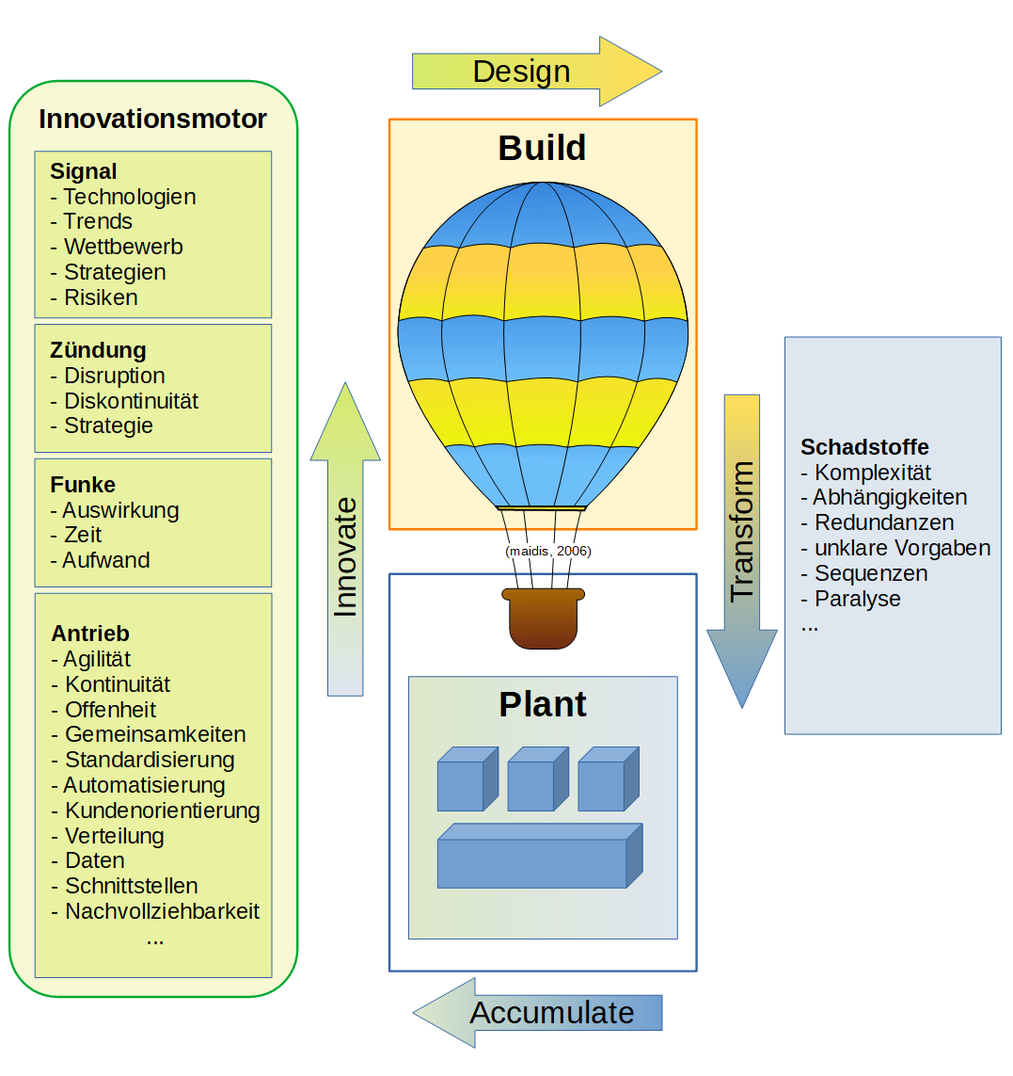
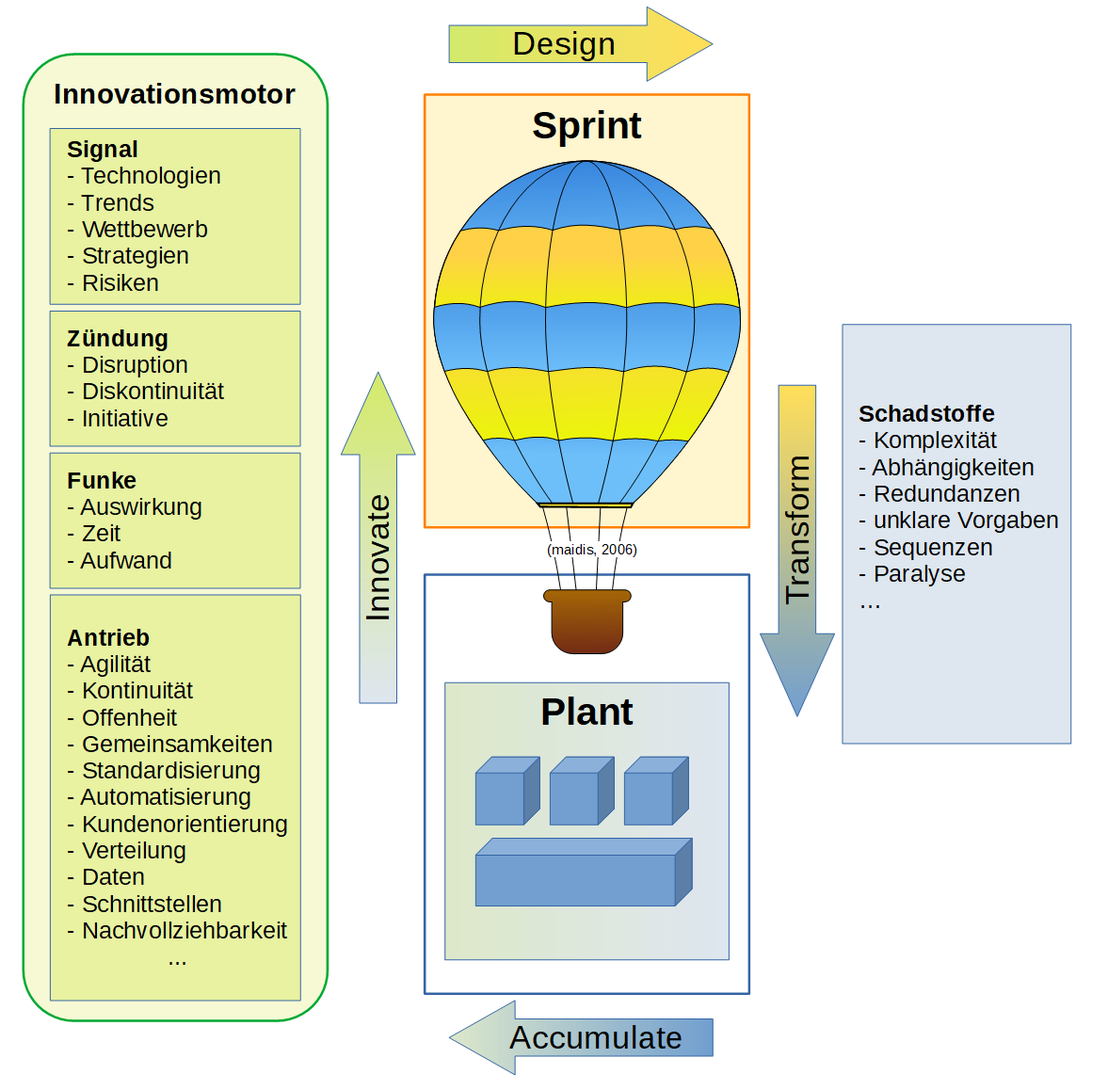
Updates from Overleaf

Changed region(s): [[0.0, 0.0, 1.0, 0.9799]]

diff --git a/chapters/examples/chapter04.tex b/chapters/examples/chapter04.tex
@@ -1,77 +1,68 @@
-\chapter{Veränderungsprozesse in Organisationen}
-Dieses Kapitel analysiert die Einflüsse aus den Rahmenbedingungen für Veränderungsprozesse der Institute und trägt kontinuierlich zur Findung der Ursachen der genannten Probleme und Ansätze für ihre Lösung bei. Der \emph{Design-Thinking} Prozess wird hierbei als iterative Innovationsmethode für Ideen, Prototypen und kontinuierlicher Evaluierung verwendet. Daher bauen die nachfolgenden Abschnitte aufeinander auf und sollen somit zu einer kontinuierlichen Verbesserung beitragen.
+\chapter{Innovations- und Transformationsprozesse}
+Dieses Kapitel analysiert die Einflüsse aus den Rahmenbedingungen für Veränderungsprozesse der Institute und trägt kontinuierlich zur Findung der Ursachen der genannten Probleme und Ansätze für ihre Lösung bei. Der \emph{Design-Thinking} Prozess wird hierbei als iterative Gestaltungsmethode für Ideen, Prototypen und kontinuierlicher Evaluierung verwendet. Daher bauen die nachfolgenden Abschnitte aufeinander auf und sollen somit zu einer kontinuierlichen Verbesserung beitragen und in ihrer letzten Ebene ausgeliefert werden.
 
-\section{Innovation und Transformation}
+\section{Einflüsse und Kräfte der Innovation}
+\citet{Ganswindt2006} und \citet{Koch2016} identifizieren bereits, dass das \ac{ITM} nicht in der Lage ist die Maßnahmen für eine Transformation zu priorisieren.
+Die gegenseitigen Einflüsse sind ineinander verwachsen und es werden häufig zu erst die Symptome bekämpft (Anh.\ref{appendix:docker}, Kap. \ref{jenkins:skalierung}).
 
-\cite{Ganswindt2006} und \cite{Koch2016} identifizieren bereits, dass das \ac{ITM} nicht in der Lage ist die Maßnahmen für eine Transformation zu priorisieren.
-Die gegenseitigen Einflüsse sind ineinander verwachsen und häufig werden zu erst die Symptome bekämpft (Anh.\ref{appendix:docker}, Kap. \ref{jenkins:skalierung}).
-
-\paragraph{einschränkende Faktoren zusammengefasst}
+\paragraph{Komponenten der Legacy-IT}
 \label{einschr:assets}
-Aufgrund dieser Verwachsungen wird in der folgenden Auflistung eine grobe Lokalisierung der Einschränkungen vorgenommen:
+Aufgrund dieser Verwachsungen wird in der folgenden Auflistung eine grobe Lokalisierung und Zusammenfassung vorgenommen:
 \begin{itemize}
-    \item \textbf{Organisation:} tiefe Silos \cite{Gupta:2017}, Schatten-IT \cite{recht/Bornemann2018}, Abhängigkeiten, Handlungsunfähigkeit, Redundanzen
-    \item \textbf{IT-Architektur:} Komplexität \cite{Brockhoff2006}, steigende Anforderungen \cite{Brockhoff2006}, Kosten für Eigenentwicklung \cite{Gupta:2017}, Proprietäre Anwendungen \cite{Bussmann2006}
-    \item \textbf{Regulatorik:} \ac{IDV} Katalogisierung\cite{recht/Bornemann2018}, fehlende Präzisierung, steigende Anforderungen,
+    \item \textbf{Organisation:} tiefe Silos \cite{Gupta:2017}, Schatten-IT \cite{recht/Bornemann2018}, Abhängigkeiten, Handlungsunfähigkeit, Redundanzen, mangelnde Priorisierung, langsame Prozesse
+    \item \textbf{IT-Architektur:} Komplexität \cite{Brockhoff2006}, steigende Anforderungen \cite{Brockhoff2006}, Kosten für Eigenentwicklung \cite{Gupta:2017}, Proprietäre Anwendungen \cite{Bussmann2006}, veraltete Systeme, mangelnde Skalierbarkeit, Legacy-IT
+    \item \textbf{Regulatorik:} \ac{IDV} Katalogisierung\cite{recht/Bornemann2018}, fehlende Präzisierung, steigende Anforderungen
 \end{itemize}
 
-\citet[Kap. 2.2]{Alt2017} erklären die Abläufe in Folge einer Innovation. Die Abbildung \cite[Abb. 2.1]{Alt2017} beschreibt einen Innovationsverlauf als eine \emph{S-Kurve} \cite{Ganswindt2006}, die in Folge mehrerer Innovationen gesamtheitlich betrachtet einen disruptiven Verlauf zeigen. Darunter liegt die Adaptionskurve, die als die Ableitung der Innovationskurve erscheint. 
+Es fällt auf, dass es erheblich schwierig ist die Einschränkungen für eine Transformation zu faktorisieren. Es ist weitaus einfacher direkte Gegenmaßnahmen auf die beobachtete Einschränkung vorzuschlagen oder antreibende Eigenschaften wie Agilität zu fordern. Daher werden die antreibenden Faktoren nachfolgend betrachtet.
+
+\subsection{Innovationsverlauf als disruptive S-Kurven}
+\citet[Kap. 2.2]{Alt2017} erklären die Abläufe einer Innovation. Die Abbildung \cite[Abb. 2.1]{Alt2017} beschreibt einen Innovationsverlauf als eine \emph{S-Kurve} \cite{Ganswindt2006}, die in Folge mehrerer aneinander gereihte Innovationen gesamtheitlich betrachtet einen disruptiven Verlauf mit Sprüngen zeigen. Darunter liegt die Adaptionskurve, die als die Ableitung der Innovationskurve erscheint. 
+
+Einschränkenden Faktoren, die in Banken beobachtet werden, könnten auf dem ersten Blick als Faktor der Adaptionskurve in \cite[Abb. 2.1]{Alt2017} zugeordnet werden und die Adaption beschränken. Demgegenüber stehen die zu erarbeitenden Gegenmaßnahmen zur Lösung des Problems. Instinktiv können einige Einschränkungen, die eine Eigenschaft darstellen negiert werden. Komplexität wird beispielsweise zu Nachvollziehbarkeit. Die Meisten benannten Einschränkungen sind jedoch keine Effekte, die die Innovationskraft beeinflussen. Sie beeinflussen aber die bevorstehende Transformation. 
 \medskip
 \\
-Einschränkenden Faktoren, die in Banken beobachtet werden, könnten als Faktor der Adaptionskurve in \cite[Abb. 2.1]{Alt2017} zugeordnet werden. Demgegenüber stehen die zu erarbeitenden Gegenmaßnahmen zur Lösung des Problems.
+Innovationen unterliegen kreativen Prozessen \cite[S.14]{Alt2017}, weswegen eine kreative Methode sich für ihr Verständnis eignen könnte. Gerade der \emph{Design-Thinking} Prozess sieht die iterative Gestaltung und Evaluierung von Prototypen vor. Dadurch können Zusammenhönge untersucht werden und der Lösungsansatz kann ständig angepasst werden.
 \medskip
 \\
-Hierbei fällt auf, dass die als Faktor wahrgenommenen Einschränkungen aus den Rahmenbedingungen in diesem Kapitel zwischen Zuständen und ihren Eigenschaften unterschieden werden können. Daher sind einige Einschränkungen Rahmen, die einen Zustand enthalten. Ihre negativen Eigenschaften sind hierbei die Faktoren, welche die Adaptionskurve hemmen könnten. Es macht im ersten Blick durchaus Sinn, dass die Einführung einer innovativen Technologie 
-\medskip
-\\
-In einem ersten Rückblick, zwischen den untersuchten Maßnahmen und dem Innovationsverlauf in \cite{Ganswindt2006, Alt2017} kann folgendes festgestellt werden.
+In folge wurde Abbildung \ref{fig:digit-trans} in mehreren Iteration der Syntheseschritte \enquote{ideate-prototype-testing} aus dem Design-Thinking Prozess (Kap. \ref{def-design-thinking}) mithilfe von den Punkten aus \cite[S. 14]{Alt2017} und dem erarbeiteten Rahmen in Kap. \ref{ch:background} generiert.
+%
 
-
-\begin{itemize}
-    \item Das Problem besteht in der \emph{Transformationsfähigkeit} eines Unternehmens. 
-    \item Um diese zu steigern müssen Maßnahmen ermittelt werden, welche die Amplitude der Adaptionskurve \cite[Abb. 2.1]{Alt2017} \emph{kontinuierlich \cite{Bussmann2006}} aufrecht erhalten. 
-\end{itemize}
-
-\subsection{Prototyp zur Regelung von Innovation}
-
-\paragraph{Innovationsverlauf}
-Die Einflüsse im Zusammenhang mit Innovation könnten folgendermaßen klassifiziert werden:
-\begin{enumerate}
-    \item \textbf{Impulse} für einen bevorstehenden Transformationsprozess. Für Veränderung werden Impulsgeber benötigt wie zum Beispiel Technologien \cite{Bussmann2006, Gupta:2017}. Der Impuls kann als die Innovation selbst gesehen werden. Aus der Ableitung der Adaptionskurve \cite[Abb. 2.1]{Alt2017} wird deutlich, dass der Hochpunkt der Adaption mit der Auswirkung oder Effektivität der Innovation korreliert.
-    \item \textbf{Auslöser} für die Klassifizierung der Innovation. Sie ist für die Entscheidung über die Maßnahmen gegenüber den Impulsen wichtig.
-    \item \textbf{Parameter} für die Antizipation der \emph{bevorstehenden} Transformation. \emph{Bevorstehend} impliziert auch eine Unvermeidbarkeit, die sich aus disruptiven Eigenschaften einer Innovation ergibt \cite{Fernandez:2020, Gupta:2017}
-    \item \textbf{Antriebe} als Faktoren, die die \emph{bevorstehende} Transformation begünstigen. Sie drücken möglicherweise die Innovationskraft oder Effektivität der Organisation aus.
-\end{enumerate}
-Die höchstmögliche Transformationsfähigkeit wäre mit der geringsten Differenz zwischen der \emph{angestrebten} Adaptionskurve \cite[Abb. 2.1]{Alt2017} und der Transformationsfähigkeit möglich.
-
-\paragraph{Regelung der Transformation}
-Veränderungen unterliegen kreativen Prozessen \cite[S.14]{Alt2017}, weswegen eine kreative Methode sich für ihr Verständnis eignen könnte. Gerade der \emph{Design-Thinking} Prozess sieht die iterative Gestaltung und Evaluierung von Prototypen vor. Dadurch können Zusammenhönge untersucht werden und der Lösungsansatz kann ständig angepasst werden.
-\medskip
-\\
 \begin{figure}[htbp]
  \centering
  \includegraphics[width=1.0\textwidth]{gfx/digital-transformation-lifecycle-by-selim3.PNG}
- \caption{Innovationsverlauf und Regelung der Transformation (Quelle: eigene Darstellung, Heißluftballon von \citet{maidis_2006})\label{fig:digit-trans}
+ \caption{Innovationsverlauf und Regelung einer Transformation (Quelle: eigene Darstellung, Heißluftballon von \citet{maidis_2006})\label{fig:digit-trans}
  }
 \end{figure}
+%
+\paragraph{Beschreibung Innovationsverlauf}
+Ein Innovationsprozess setzt auch einen Auslöser voraus. Dieser kann kontrolliert anhand einer Strategie gesetzt werden oder durch äußere Einflüsse unkontrolliert in Form einer Disruption oder Diskontinuität. \cite{Fernandez:2020} des aktuellen Zustands eindringen. Sie Zeigen sich als Impuls, die Bewegungen anstoßen.
+Weitergeführt werden in (Abb. \ref{fig:digit-trans}) die Antriebe der Innovation beschrieben. Diese steigern die Innovationskraft und wirken gegen die Widerstände, genannt Einschränkungen. Die Antriebe sind hierbei in Form von Anforderungen nur ein Soll-Zustand der Organisation. Sie ermitteln sich aus der Last der Legacy-IT. 
+
+\paragraph{Ursprung der Idee}
+Der Begriff der antreibenden und einschränkenden Faktoren generierte in Zusammenhang mit dem Transformationsziel der heutigen IT-Architekturen hin zu einer Cloud-Architektur die Idee von einem Heißluftballon als Metapher für die sich transformierende Organisation.
+
+\paragraph{Auswirkung auf die Transformation}
+
+Wird das ganze mit einem entsprechenden physikalischen Zusammenhang betrachtet scheint es sofort ersichtlich, dass geplante Transformationen mit Gegengewichte belastet werden. Der Arbeitsaufwand für die Transformation steigt exponentiell, je schwergewichtiger die Organisation ist. Veränderungsprozesse oder Transformationen können nicht mit linearen Metriken geplant werden. Daher entsteht auch das Problem von exponierenden Budgets in Anpassungsprojekten.
 \medskip
 \\
-Abb. \ref{fig:digit-trans} ist aus der Zusammenfassung von antreibenden und einschränkenden Faktoren entstanden. Der Begriff der antreibenden und einschränkenden Faktoren generierte in Zusammenhang mit dem Transformationsziel der heutigen IT-Architekturen hin zu einer Cloud-Architektur die Idee von einem Heißluftballon als Metapher für die sich transformierende Organisation.
-
-Zu antreibenden Faktoren für Veränderungen wurden weitere Kategorien aus den Ergebnissen dieses Kapitels ergänzt. Die Antriebe sind hierbei ein Soll-Zustand, der eine 
-
-Ein Veränderungsprozesse oder Transformation beginnt nicht allein mit dem Treibstoff. Der Prozess setzt einen Funken als Auslöser voraus, um ihn zu beginnen. Dieser kann kontrolliert anhand einer Strategie gesetzt werden oder durch äußere Einflüsse unkontrolliert in Form einer Disruption oder Diskontinuität \cite{Fernandez:2020} des aktuellen Zustands.
+Um eine Transformation zu planen reichen Aufwände und Zeitrahmen nicht aus. Die Transformation bedingt eine Innovationskraft, die sich aus der Wechselwirkung zwischen vorhandenem Antrieb und Einschränkungen ergibt. Sind genügend Antriebe vorhanden und wenig Last kann auch Traktion entstehen.
 \medskip
 \\
+Die Maßnahmen der Legacy-IT in Banken richten sich nach den falschen Metriken und Zielen. Ziel ist es nicht eine Arbeit hinter sich zu bringen. Technologiesprünge werden frequentierter und Strecke immer länger.
+Die aktuellen Maßnahmen richten sich nur nach den Einschränkungen. Diese sind erstmal nicht relevant, da sie sich nicht selbst überwinden können. Für die Innovationskraft spielt der materielle Zusammenhang keine Rolle.
+
+\paragraph{Bildlich weitergeführt}
 Die Analogie eines Heißluftballon für die Regelung der Transformation kann folgendermaßen fortgeführt werden:
 
-Die Veränderungsprozesse im Ballon sind dynamisch und bewegen mit genug Antrieb ein statisches Abbild der Organisation, welcher im Korb des Heißluftballon liegt und einen Zustand der Organisation beschreibt. Der Korb ist in sich geschlossen und beinhaltet den Ablauf und Aufbau des Kerngeschäfts. Dieser trägt zu ihrer Unterstützung viele weitere Funktionen mit, die jeweils die Bewegung der Organisation durch ihre Last exponentiell einschränken. Die Bewegung kann auf zwei Arten beschleunigt werden. Der Antrieb wird erhöht oder ein Teil der Einschränkungen abgeworfen. Sie kann nicht gesteuert werden, wodurch externe Einflüsse sie stark beeinflussen können. Das Objekt gleitet in diesem hierbei im Strom einfach mit. Beim Fliegen das Gewicht des Heißluftballon (Abb. \ref{fig:digit-trans}) eine größere Rolle wie ihr Antrieb. Mit zunehmendem Gewicht steigt der Aufwand exponentiell.
+Die Kräfte im Ballon sind dynamisch und bewegen mit genug Antrieb ein statisches Abbild der Organisation, welcher im Korb des Heißluftballon liegt und einen Zustand der Organisation beschreibt. Der Korb ist in sich geschlossen und beinhaltet den Ablauf und Aufbau des Kerngeschäfts. Dieser trägt zu ihrer Unterstützung viele weitere Funktionen mit, die jeweils die Bewegung der Organisation durch ihre Last exponentiell einschränken. Die Bewegung kann auf zwei Arten beschleunigt werden. Der Antrieb wird erhöht oder ein Teil der Einschränkungen abgeworfen. Sie kann nicht gesteuert werden, wodurch externe Einflüsse sie stark beeinflussen können. Das Objekt gleitet hierbei im Strom einfach mit.
 \medskip
 \\
 \paragraph{Lehren aus Docker}
 Ein statisches Abbild mit Prozessbeschreibungen und Ausführung als eine in sich geschlossene Einheit ist aus der Virtualisierung von Systemen bekannt. Mit zunehmender Automatisierung der Geschäftsprozesse finden sich auch zunehmende Gemeinsamkeiten zwischen Organisationen und IT-Systemen. 
 
-Best-Practices zur Beschreibung von Images mit Docker könnten als Inspiration für Organisationen dienen. Besonders das Minimalisieren von Images und Konzepte wie Kubernetes zur flexiblen Skalierung und Orchestrierung von ganzen System könnten als Idee für eine flexible und skalierbare Orchestrierung von Veränderungen für die Organisation dienen, um ihre Transformation zu automatisieren. Der schmerzvolle Rollout bei wesentlichen Veränderungen in großen Organisationen könnte in eine vollautomatisierte Orchestrierung umgewandelt werden.
+Best-Practices zur Beschreibung von Images mit Docker könnten als Inspiration für Organisationen dienen. Besonders das Minimalisieren von Images durch schlanke und funktionale Ebenen sowie Kubernetes zur flexiblen Skalierung und Orchestrierung von ganzen System könnten als Idee für eine flexible und skalierbare Orchestrierung von Veränderungen für die Organisation dienen, um ihre Transformationsfähigkeit zu erhöhen. Der schmerzvolle Rollout bei wesentlichen Veränderungen in großen Organisationen könnte in eine vollautomatisierte Orchestrierung umgewandelt werden.
 Agile Prinzipien in der Kultur wären das Docker und ein neues effektives Change-Management das Kubernetes des Managements.
 
 Nach einer solchen zukünftigen Entwicklung wäre die Idee von \emph{Development as a Service} \ref{Disruption:DaaS} mit entsprechenden eingespielten Abläufen durchaus realistisch. Andere disruptive Entwicklungen sind auch nicht ausgeschlossen. Umso wichtiger ist es einen Weg zu finden die Digitale Transformation zu beherrschen.
@@ -82,17 +73,18 @@ Nach einer solchen zukünftigen Entwicklung wäre die Idee von \emph{Development
 %
 
 
+\section{Frage an das Management: Change oder Run?}
 \paragraph{Transformationsfähigkeit als Prinzip}
-Abb. \ref{fig:digit-trans} stellt für den Umgang mit wesentlichen Veränderungen ein erstes Prototyp dar. Sie impliziert, dass antreibende und einschränkende Faktoren erhebliche Einflüsse für die bevorstehende Transformation haben. Die Abbildung beschreibt möglicherweise einen Zustand vor einer bevorstehenden Transformation.
+Abb. \ref{fig:digit-trans} stellt für den Umgang mit wesentlichen Veränderungen ein erstes Prototyp dar. Die Abbildung beschreibt möglicherweise einen Zustand vor einer bevorstehenden Transformation.
 
-Daher dient sie als Grundlage, um Anforderungen für einen innovativen Soll-Zustand zu simulieren. Ein innovativer Soll-Zustand der Organisation würde eine höchstmögliche Transformationsfähigkeit antreiben. 
+Daher dient sie als Grundlage, um Anforderungen für einen innovativen Soll-Zustand zu simulieren. Ein innovativer Soll-Zustand der Organisation würde eine höchstmögliche Transformationsfähigkeit bedeuten.
 \medskip
 \\
 Gleichzeitig zeigt sie, dass mit Anforderungen und Kenntnissen über Einschränkungen eine bevorstehende Transformation nur geregelt werden kann und die Richtung nicht absehbar ist. Gas geben ohne zu lenken ist für FinTechs und Start-ups kein großes Problem, da aufgrund ihrer kleinen Größe die Auswirkungen von Veränderungen einfacher analysiert werden können.
 
 Für die größeren, etablierten Institute gilt ein erhöhter Schutzbedarf \cite{recht/Bornemann2018} und dadurch zusätzliche Maßnahmen für die Kontrolle von operationellen Risiken \cite{MaRisk:2017, BAIT:2018}. Diese müssen gezwungenermaßen sich neu ausrichten \citet{Bussmann2006, Gupta:2017}, indem sie ihre hohe Masse in Bewegung versetzen. Analog impliziert es eine Unkontrollierbarkeit von möglichen Problemen und Risiken.
-
-\subsection{Frage an das Management: Change oder Run?}
+\medskip
+\\
 \citet[11.4.1]{Koch2016} fordern für ein Management der Transformation:
 \begin{quote}
     \enquote{Erstens ist zu akzeptieren, dass der
@@ -120,7 +112,7 @@ Beim Durchleuchten der Einschränkungen aus verschiedenen Perspektiven fällt au
 \paragraph{Gestaltungsmethoden für IT-Management}
 Neben externe Auslöser von Innovation, die Unternehmen aufgrund von Disruption und Diskontinuität zu Veränderungen zwingen \cite{Gupta:2017, Fernandez:2020} existiert die IT-Strategie als interner Auslöser \cite{BAIT:2018, Alt2017}, dessen Verantwortung in erster Linie der Geschäftsleitung unterliegt \cite{BAIT:2018}. Daher sollten zu erst die Veränderungsprozesse optimiert werden. Eine klare IT-Strategie optimiert sich selbst bevor Forderungen gestellt werden. Dies wird durch Gestaltungsmethoden wie \emph{Design-Thinking} hervorgehoben, indem sie die Quellen zu fremden Problemen zuerst auf sich selbst richten \cite{yüksel:digit}. Gestaltungsmethoden wie Design-Thinking werden gerade für Innovationsprozesse und für das \ac{ITM} empfohlen \cite{Alt2017, Koch2016}. Zudem sollte die in \citet[AT 8.2]{MaRisk:2017} geforderte Analyse und Beteiligung bei wesentlichen Veränderungen schon in den Gestaltungsprozessen stattfinden \cite{Dorschel2018}. Eine Mitgestaltung nach agilen Methoden (Abb. \ref{fig:devops}) ist auch im IT- und Risikomanagement erforderlich, um effiziente Abläufe und Maßnahmen zu schaffen.
 
-\paragraph{Forderung eines effektiven Veränderungsmanagements}
+\section{Forderung eines effektiven Veränderungsmanagements}
 Für die Vorhersehbarkeit von Auswirkungen ist ein kontrollierter Umgang mit Veränderungsprozessen erfordert. Um wesentliche Veränderungen kontinuierlich zu ermöglichen muss die Analyse ihrer Auswirkungen \cite{MaRisk:2017} ebenfalls effektiv sein. Die Vorhersehbarkeit der Auswirkungen von Veränderung sollte nicht nur aufgrund der Regulatorik erfüllt werden. Sie ist als eine Voraussetzung für eine klare Sicht und Zielorientierung für die Transformation anzustreben.
 \medskip
 \\
@@ -145,19 +137,16 @@ Die Frage zu einem Umgang mit kontinuierlichen Veränderungen betrifft das Verä
 \medskip
 \\
 Daher wird klar warum das Modell aus Abb. \ref{fig:digit-trans} nicht zufriedenstellend genug ist. Sie identifiziert anhand der Antreiber und Einschränkungen viele Anforderungen aus \cite[Tab. 11.1]{Koch2016} aus den Bereichen Innovations- und Gestaltungsfähigkeit. Für ein Paradigmenwechsel großer Organisationen spielt die Transformationsfähigkeit die entschiedenste Rolle.
- \paragraph{Ökologisches Veränderungsmodell: IDTA-Modell}
- \begin{figure}[htbp]
- \centering
- \includegraphics[width=1.0\textwidth]{gfx/digital-transformation-lifecycle-by-selim4.PNG}
- \caption{Transformations-Lebenszyklus: Kontinuierlicher Veränderungsprozess nach Innovate-Design-Transform inklusive Accumulate (Quelle: eigene Darstellung, Heißluftballon von \citet{maidis_2006})\label{fig:digit-trans-idt}
- }
- \end{figure}
 
-In Anlehnung am DevOps Lebenszyklus \ref{fig:devops} \cite{Alt2017} wurde ein kontinuierliches Konzept für die gezielte Steuerung von Innovationsabläufen ausgearbeitet \cite{Ganswindt2006}.
+\section{Ökologisches Veränderungsmodell der IT}
+\label{idta-modell-chap}
+In Anlehnung an das  \emph{innovate-design-transform} Paradigma von \citet{Koch2016}, und an DevOps wurde ein kontinuierliches Konzept für die gezielte Steuerung von Innovationsabläufen \cite{Ganswindt2006} ausgearbeitet.
 
-Während das DevOps Lebenszyklus \cite{Alt2017} sich auf einen kontinuierlichen Prozess für die Optimierung eines IT-Produkts oder IT-Service bezieht, soll diese Abbildung \ref{fig:digit-trans} sich auf einen kontinuierlichen Prozess für die Optimierung der IT-Organisation beziehen, indem die Verbesserungsprozesse selbst in einem kontinuierlichen Prozess ihr Ergebnis ständig verbessern können.
+Während das DevOps Lebenszyklus \cite{Alt2017} sich auf einen kontinuierlichen Prozess für die Optimierung eines IT-Produkts oder IT-Service bezieht, soll diese Abbildung \ref{fig:digit-trans} sich auf einen kontinuierlichen Prozess für die Optimierung der IT-Organisation beziehen, indem die Veränderungsprozesse selbst in einem kontinuierlichen Prozess ihr Ergebnis ständig verbessern können.
+\medskip
+\\
  
-\subsection{Vom Innovationsverlauf zum ökologischen Innovationsmotor}
+\subsection{Vom Innovationsverlauf zum Innovationsmotor}
 Der für Abb. \ref{fig:digit-trans} ausgearbeitete Innovationsverlauf stellt einen ersten Zusammenhang für die schwer zu überblickenden und zu beherrschenden und Abläufe, wodurch Innovationsprozesse in Gang gesetzt werden. Die Impulse, welche die Ausgaben der schwierig zu erkennenden fremden Abläufe sind konnten dadurch grob klassifiziert werden. Das Innovationsmanagement hat zu erkennen, dass der Innovationsprozess extern bereits gestartet wird und die Ausgaben der externen Abläufe die Organisation durchdringen. Für die Beherrschbarkeit der unvermeidbaren Innovationseinflüsse hat das Innovationsmanagement sich zur Aufgabe machen die externen Impulse wahrzunehmen und die Abläufe abzufangen und gegebenenfalls zu übernehmen.
 Dabei ist es von besonderer Bedeutung das Risikomanagement in diesen Überwachungsprozess mit gestalterischen Tätigkeiten miteinzubeziehen. Ein sich aufbrauender Veränderungsprozess macht sich mit kleinen Impulsen bemerktbar, bevor es disruptiv in die Athmosphäre der Organisation eindringt. Die Gefahr der Disruption muss mitigiert werden, indem die Innovation gekapert wird. 
 \medskip
@@ -170,10 +159,47 @@ Daher hat die Gestaltung des Innovationsmanagements Implikationen auf das Risiko
 Disruptive Technologien greifen den Markt an \cite{Fernandez:2020} und somit auch das Geschäftsmodell der etablierten Institute (\ref{Disruption:Blockchain}) und sind daher ein operationelles Risiko. Diese Tatsache ist seit längerem bekannt \cite{Ganswindt2006} und wird nicht berücksichtigt.
 \medskip
 \\
+\subsection{Forderungen zu MaRisk}
 Aufgrund der Risikosituation in Zeiten der Digitalen Transformation wird zu den \ac{MaRisk} \cite{MaRisk:2017} im Rahmen der Ermessensfreiheit der Institute folgende Maßnahmen gefordert:
 \begin{enumerate}
-    \item Die Geschäftsleitung hat in der Gestaltung der Geschäftsstrategie die IT-Strategie als Kernkompetenz einzubeziehen
     \item Die IT-Strategie hat die Transformationsfähigkeit des Instituts sicherzustellen und Innovationsprozesse kontinuierlich zu verbessern
-    \item Das Risikomanagement ist in das Innovationsmanagement einzubeziehen
     \item Das Risikomanagement hat Impulse aus Innovationsverläufen zu überwachen und gegen Disruptionen ein Notfallkonzept für Transformationsprozesse auszuarbeiten. Insbesondere hat sie die Aufgabe eine Disruption zu erkennen und eine Transformation aktiv vorzubereiten.
+\end{enumerate}
+
+\subsection{Ökologie des IT-Betriebs}
+Das \emph{innovate-design-transform} Paradigma von \citet{Koch2016} wurde um den Punkt Accumulate erweitert, um die Errichtung von Anlagen \cite{Ganswindt2006} miteinzubeziehen. Gerade dieser Schritt erzeugt ein Kontinuitätsprinzip, dass eine Steigerung der Transformationsfähigkeit vorsieht. Accumulate steht hierbei für Wertschöpfung. Sie kann auch für das Sammeln von Daten und Erkenntnissen stehen. Dieser Schritt ist ein Beitrag für einen ständigen Verbesserungsanspruch. Die Bereiche Entwicklung und Produktion wurden hierbei umbenannt. Sprint steht für die Agile Entwicklung. Die Produktion wurde in Plant umbenannt, um eine Nachhaltigkeit der IT-Architektur vorauszusetzen. Produktion bezeichnet die industrialisierte Legacy-IT, die abgeschafft werden soll durch ein ökologisches System, dass ein Verbesserungsanspruch an sich selbst stellt und den Eintritt von Schadstoffen vermeidet. Schadstoffe sind hierbei operationelle Risiken, die besonders die Schwächen der 
+
+\subsection{Anforderungen für Veränderungsprozesse}
+Die nachfolgenden antreibenden Faktoren betreffen die Fähigkeit der IT zur Umsetzung ihrer Veränderungs- oder \enquote{Change-} Prozesse.
+
+\begin{enumerate}
+    \item \textbf{Offenheit \cite{Brockhoff2006}}
+    
+    \item \textbf{Zusammenarbeit}
+
+    \item \textbf{Standardisierung} 
+    Dieser Punkt umfasst Anwendungen, Systeme und Prozesse. Die Verwendung von gängigen sowie standardisierten Lösungen bringt eine Reihe von Vorteilen. Sie erhöht allen voran die Nachvollziehbarkeit der Systeme und sorgt für eine Effizienzsteigerung von Prozessen \cite{Strietzel2018, Bussmann2006, Alt2017}. 
+    
+    Beteiligte, insbesondere die Prüfer der Bankaufsicht und die interne Revision, können so mit einem Grundwissen über die IT die meisten Systeme auf Anhieb verstehen. Die Implementierung von \emph{Sicherheitstandards \cite{IT-Grundschutz:2020, Disterer2013}} ist hierbei besonders wichtig und bietet eine Grundlage für die Einhaltung der regulatorischen Vorgaben \cite{MaRisk:2017, BAIT:2018}.
+    
+    Der Einsatz von Standardsoftware führt zu einem effizienteren Ablauf in ihrer Wartung und Weiterentwicklung \cite{Bussmann2006}. Die Komplexität von operativen Systemen schränkt die Einführung von Standardsoftware jedoch ein \cite[S.27]{Bussmann2006}. Das Prinzip der \emph{Standardisierung} in Verbindung mit \emph{Offenheit} ergibt die Verwendung von \enquote{Open-Source} Software, die eine höhere Effizienzsteigerung aufgrund der Wiederverwendbarkeit der Komponenten bezweckt \cite{Brockhoff2006, Gupta:2017}. 
+    
+    Die Einführung von Standardsoftware hat ebenfalls Auswirkungen auf eingespielte Prozesse und die daraus folgenden Einzelentscheidungen beeinflussen in ihrer Summe die Entscheidung für oder gegen den Standard \cite[Tab.1]{Manz2018}.
+    
+    \item \textbf{Trennbarkeit}
+    Dieser Faktor leitet sich aus der Maßnahme der Modularisierung und Entkerung von Systemen \citet{Bussmann2006} ab und ist eine Anforderung aufgrund der Symptome der Abhängigkeit.
+    
+    \item \textbf{Nachvollziehbarkeit}
+    
+    
+    \item \textbf{Automatisierung}
+    Die Automatisierung ist besonders im Bereich der Unterstützungs- und Steuerungsprozesse \cite{Bussmann2006} von besonderer Bedeutung, sodass sich das \ac{ITM} an Innovationsprozessen beteiligen kann. 
+    
+    \item \textbf{Effizienzsteigerung}
+    Die Effizienzsteigerung wirkt sich auf die verwendeten Ressourcen und Zeitaufwand der Prozesse, Systeme oder Anwendungen aus. Dazu zählen auch Kosten- und Personalaufwand. Es stellt sich die Frage in welchen Bereichen eine Effizienzsteigerung am sinnvollsten ist.
+    
+    Die Effizienzsteigerung wird vor allem im Bereich der Veränderungsprozesse \enquote{Change} bezüglich ihres Zeitaufwands erforderlich. Im Bereich der betrieblichen Prozesse \enquote{Run} ist sie primär für den Aufwand der Ressourcen erforderlich.
+    
+    Eine Effizienzsteigerung im Betrieb ermöglicht mehr Mittel für die \enquote{Change} Prozesse \cite{Rausch2006}. Dagegen steht das Prinzip, dass Ressourcen im Gegensatz zu Zeit finanziert und eingekauft werden können. Bevor an Opportunitäten in Form einer strategischen Weiterentwicklung der Produkte \cite{Rausch2006} gedacht wird, sollte die Weiterentwicklung der hierfür vorausgesetzten Veränderungsprozesse berücksichtigt werden. Die Fähigkeit für eine kontinuierliche Anpassung \cite{Bussmann2006, Ganswindt2006} der Produkte wird mit aktuellen Methoden, wie in Abb. \ref{fig:devops} dargestellt, bereits vorausgesetzt \cite{Alt2017}.
+
 \end{enumerate}

diff --git a/chapters/examples/chapter05.tex b/chapters/examples/chapter05.tex
@@ -10,8 +10,8 @@ Besonders effektiv ist es, wenn dabei aus dem aktuellen Zustand heraus ein Persp
 Der Design-Thinking Prozess könnte als ein \enquote{Quick-Search} für Innovation gesehen werden. Daneben sind andere Gestaltungsmethoden ebenfalls zu betrachtet.
 \medskip
 \\
-Sie hinterlässt jedoch Spuren\footnote{Anhang: \label{appendix:docker}} und es Besteht die Gefahr zu divergieren, da sie mit einer erheblichen Geschwindigkeit induktiv vorgeht und auf kontinuierliche Verbesserung der Prototypen beruht. Dadurch entstehen viele Artefakte.
-Für die Qualitätssicherung der Lösung verlangt es einen effizienten Vorgang der Integration der Komponenten und Implementierung einer Lösung mit entsprechenden Methoden. Für eine erste Lösungsrichtung bieten ihre Syntheseschritte durch ständige Iterationen eine schnelle Deduktion.
+Sie hinterlässt jedoch viele Artefakte\footnote{Anhang: Docker Images für Jenkins Agenten\label{appendix:docker}} und es Besteht die Gefahr zu divergieren, da sie mit einer erheblichen Geschwindigkeit induktiv vorgeht und auf kontinuierliche Verbesserung der Prototypen beruht. Dadurch entstehen viele Artefakte.
+Für die Qualitätssicherung der Lösung verlangt es einen effizienten Vorgang der Integration der Komponenten und Implementierung einer Lösung mit entsprechenden Methoden. Für eine erste Lösungsrichtung bieten ihre Syntheseschritte durch ständige Iterationen eine schnelle Deduktion. Ergebnisse können entsprechend von einer Innovationsphase in die Entwicklungsphase übergehen, in welchem die Qualitätssicherung in einer separaten Umgebung sichergestellt wird. Agilität ist daher immer mit einer Nutzen-Risiko Analyse verbunden.
 
 \subsection{Von CI/CD zu Change-Management}
 Die Anfangssituation aus der \ac{SEU} in Kap. \ref{grundlagen:ci-in-banken} wurde bis zu einer unzumutbaren Hindernissschwelle bearbeitet und erste Lösungsansätze mit gängigen Standards beschrieben. Die vorgeschlagenen Ansätze lösen jedoch nicht den Ursprung des Problems, da sie umfassende Auswirkungen und Anpassungen nach sich ziehen, die eine Transformation der ganzen Organisation fordern. 
@@ -42,45 +42,8 @@ Die Aufsicht wäre sicherlich nicht daran interessiert noch mehr Komplexität du
 \\
 Hierfür wurden Prototypen nach \emph{Design-Thinking} gestaltet, die unweigerlich zeigen, dass antreibende Anlagen zur Innovationsförderung wichtig sind. Für die Priorisierung hat fehlt dabei ein klares Steuerungsprozess, daher wurde das Modell mit den dargestellten Ergebnissen kontinuierlich verbessert.
 
-\section{Faktoren der Veränderungsprozesse}
-\label{section:faktoren-change}
 
-\paragraph{Anforderungen  für Veränderungsprozesse}
-Die nachfolgenden antreibenden Faktoren betreffen die Fähigkeit der IT zur Umsetzung ihrer Veränderungs- oder \enquote{Change-} Prozesse.
-
-\begin{enumerate}
-    \item \textbf{Offenheit \cite{Brockhoff2006}}
-    
-    \item \textbf{Zusammenarbeit}
-
-    \item \textbf{Standardisierung} 
-    Dieser Punkt umfasst Anwendungen, Systeme und Prozesse. Die Verwendung von gängigen sowie standardisierten Lösungen bringt eine Reihe von Vorteilen. Sie erhöht allen voran die Nachvollziehbarkeit der Systeme und sorgt für eine Effizienzsteigerung von Prozessen \cite{Strietzel2018, Bussmann2006, Alt2017}. 
-    
-    Beteiligte, insbesondere die Prüfer der Bankaufsicht und die interne Revision, können so mit einem Grundwissen über die IT die meisten Systeme auf Anhieb verstehen. Die Implementierung von \emph{Sicherheitstandards \cite{IT-Grundschutz:2020, Disterer2013}} ist hierbei besonders wichtig und bietet eine Grundlage für die Einhaltung der regulatorischen Vorgaben \cite{MaRisk:2017, BAIT:2018}.
-    
-    Der Einsatz von Standardsoftware führt zu einem effizienteren Ablauf in ihrer Wartung und Weiterentwicklung \cite{Bussmann2006}. Die Komplexität von operativen Systemen schränkt die Einführung von Standardsoftware jedoch ein \cite[S.27]{Bussmann2006}. Das Prinzip der \emph{Standardisierung} in Verbindung mit \emph{Offenheit} ergibt die Verwendung von \enquote{Open-Source} Software, die eine höhere Effizienzsteigerung aufgrund der Wiederverwendbarkeit der Komponenten bezweckt \cite{Brockhoff2006, Gupta:2017}. 
-    
-    Die Einführung von Standardsoftware hat ebenfalls Auswirkungen auf eingespielte Prozesse und die daraus folgenden Einzelentscheidungen beeinflussen in ihrer Summe die Entscheidung für oder gegen den Standard \cite[Tab.1]{Manz2018}.
-    
-    \item \textbf{Trennbarkeit}
-    Dieser Faktor leitet sich aus der Maßnahme der Modularisierung und Entkerung von Systemen \citet{Bussmann2006} ab und ist eine Anforderung aufgrund der Symptome der Abhängigkeit.
-    
-    \item \textbf{Nachvollziehbarkeit}
-    
-    
-    \item \textbf{Automatisierung}
-    
-    \item \textbf{Effizienzsteigerung}
-    
-    Die Effizienzsteigerung wirkt sich auf die verwendeten Ressourcen und Zeitaufwand der Prozesse, Systeme oder Anwendungen aus. Dazu zählen auch Kosten- und Personalaufwand. Es stellt sich die Frage in welchen Bereichen eine Effizienzsteigerung am sinnvollsten ist.
-    
-    Die Effizienzsteigerung wird vor allem im Bereich der Veränderungsprozesse \enquote{Change} bezüglich ihres Zeitaufwands erforderlich. Im Bereich der betrieblichen Prozesse \enquote{Run} ist sie primär für den Aufwand der Ressourcen erforderlich.
-    
-    Eine Effizienzsteigerung im Betrieb ermöglicht mehr Mittel für die \enquote{Change} Prozesse \cite{Rausch2006}. Dagegen steht das Prinzip, dass Ressourcen im Gegensatz zu Zeit finanziert und eingekauft werden können. Bevor an Opportunitäten in Form einer strategischen Weiterentwicklung der Produkte \cite{Rausch2006} gedacht wird, sollte die Weiterentwicklung der hierfür vorausgesetzten Veränderungsprozesse berücksichtigt werden. Die Fähigkeit für eine kontinuierliche Anpassung \cite{Bussmann2006, Ganswindt2006} der Produkte wird mit aktuellen Methoden, wie in Abb. \ref{fig:devops} dargestellt, bereits vorausgesetzt \cite{Alt2017}.
-
-\end{enumerate}
-
-\paragraph{Prototyp: Regelung der Innovation}
+\paragraph{Prototyp: Regelung der Transformation}
 Für Prozesse wird im Rahmen des Innovationsdrucks vom IT-Management gerne auf Frameworks zurückgegriffen, wie zum Beispiel ITIL (Kap. \ref{def:itil}), worin Services sich bezüglich ihres Innovationsbeitrags messen lassen sollen \cite{Alt2017}. Im Rahmen dieser Arbeit wurden die Frameworks wie ITIL oder auch das offene Framework IT4IT wahrgenommen, jedoch bewusst nicht weiter untersucht. Im Rückblick kann festgestellt werden, dass viel mehr ein klares Bild vonnöten ist, was Frameworks wie ITIL bezwecken sollen, vor allem für das \ac{ITM}.
 \medskip
 \\
@@ -88,7 +51,14 @@ Es kann festgestellt werden, dass die Darstellung in (Abb. \ref{fig:digit-trans}
 
 Das schwierige ist jedoch hierbei die Transformation zu steuern und somit die Bewegungen zu kontrollieren. Das Finanzwesen erfordert eine Organisation mit absehbaren Manövern. Starke Bewegungen in Form von Sequenzen sind riskant. Daher wird eine Transformation in Zusammenhang mit Disruptivität als Gefahr gesehen \cite{eba:2019}
 
-\paragraph{Prototyp: Steuerung der Innovation}
+\section{Ökologisches Veränderungsmodell der IT}
+\begin{figure}[htbp]
+ \centering
+ \includegraphics[width=1.0\textwidth]{gfx/digital-transformation-lifecycle-by-selim4.PNG}
+ \caption{Ökologisches Veränderungsmodell: IDTA-Modell, erweiterung von Innovate-Design-Transform\cite{Koch2016} (Quelle: eigene Darstellung, Heißluftballon von \citet{maidis_2006})\label{fig:digit-trans-idt}
+ } vgl. (Kap. \ref{idta-modell-chap})
+ \end{figure}
+
 Die Darstellung in (Abb. \ref{fig:digit-trans-idt}) ist eine Vorwegnahme eines künftigen Zukunftzustandes nach \cite{Alt2017}, die aus einer Orientierung nach \emph{Design-Thinking} Schritten entstanden ist und ständigen Iterationen ausgesetzt war, die den Rahmen dieser Arbeit sprengen würden. Nach der Identifizierung von möglichen Antrieben der Transformation, wurde \cite{Ganswindt2006} genauer untersucht. Nach dem Fund des \emph{Treibstoffs}\footnote{Begriff aus \cite{Ganswindt2006}}  musste ein Motor her. Die Regelung der Transformation durch manuelle, sequenzielle Abläufe erzeugt durch ihre Ineffizienz viele Schadstoffe die sich als einschränkende Faktoren materialisieren. Die Anhäufung dieser Faktoren ist das Ergebnis in Form einer Legacy- und Schatten-IT.
 
 Für eine nachhaltige Organisation gehört es sich ihre Schadstoffe mit dem Einpflanzen von antreibenden Anlagen zu reinigen.
@@ -103,7 +73,6 @@ Kontinuierliche Ansätze wie \emph{DevOps} und \emph{Design-Thinking} helfen dab
 \\
 Darüber hinaus wird deutlich, dass die Informatik weitreichende Kompetenzen verfügt aus dem Zusammenhang heraus Probleme auch aus anderen Bereichen zu lösen. Beginnend von der Ausgangssituation eines vorwiegend technischen Problems haben innovationsorientiere Ansätze weitreichende Implikationen auf ihre nicht-technische Umgebung. Die Abkürzung IT sollte im Sinne einer Organisation künftig nicht für Informationstechnologie stehen sondern für \enquote{Innovation und Transformation}, wodurch es Bezug auf die Eingangs- und Ausgangsströme des Paradigmas \enquote{Innovate-Design-Transform} nimmt. Dazwischen liegt unser Ergebnis, das Akkumulieren als Wertschöpfung.
 \medskip
-
 \\
 Kreative Methoden sind durch die ad-hoc Generierung von Prototypen oder Beschreibungen wichtige Mittel für die Gestaltung von immateriellen Zuständen und daher für Innovationsprozesse geeignet. Die Synthese ihrer Ergebnisse ergibt sich aus der Kohärenz zwischen gegenwärtigem Zustand, zukünftigen Risiken sowie Opportunitäten der verschiedenen Perspektiven. 
 \medskip

diff --git a/chapters/examples/chapter03.tex b/chapters/examples/chapter03.tex
@@ -345,6 +345,7 @@ management
 sollte auch die Ausrichtung der IKT-Strategie\footnote{\ac{IKT} -Strategie übersetzt von \enquote{ICT-Strategy}} nach Innovation enthalten, zur Vermeidung von Disruption und zur Unterstützung schlanker digitaler Transformation, die auf \ac{IKT}-Architektur basiert. Es\footnote{Die Richtlinie} sollte auch das richtige Portfolio von Änderungen enthalten, zur Ausrichtung der \ac{IKT}-Transformation in Einklang mit Geschäftstransformation.
     }\footnote{Übersetzt aus dem Englischen, Respondent unbekannt}
 \end{quote}
-Die Antwort hierauf verweist auf die IT-Strategie, die Teil der Gesamtstrategie ist \cite[S. 14ff]{eba:2019}.
-\medskip
-\\
+
+Die Sorgen der Beteiligten zu disruptiven Verläufen \cite{Ganswindt2006, Alt2017} von Technologiesprüngen und der damit zusammenhänge Aufwand eine Transformation der Architektur durchzuführen wird hierbei deutlich. Hierbei ist auch von richtigem Portfoliomanagement die Rede, um für die richtigen Änderungen zu priorisieren.
+
+Die Antwort der \ac{EBA} hierauf verweist auf die IT-Strategie, die Teil der Gesamtstrategie ist \cite[S. 14ff]{eba:2019}. Somit stehen Banken in der Eigenverantwortung sich eine Strategie für disruptive Technologiespürnge zu erarbeiten.

diff --git a/hdathesis-config.tex b/hdathesis-config.tex
@@ -7,7 +7,7 @@
 % ****************************************************************************************************
 % 1. Personal data and user ad-hoc commands
 % ****************************************************************************************************
-\newcommand{\myTitle}{Antriebe der Veränderung - Aus CI/CD einer Bank zur Digitalen Transformation durch ökologisches Anlegen disruptiver Technologien
+\newcommand{\myTitle}{Antriebe der Veränderung - Aus CI/CD einer Bank zur Digitalen Transformation mit einem Ökologischen Veränderungsmodell der IT
 \xspace
 }
 
